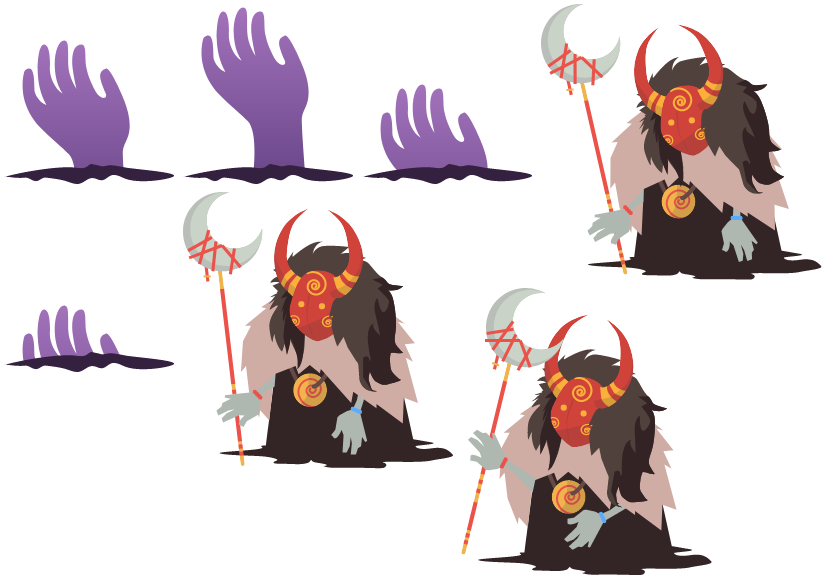
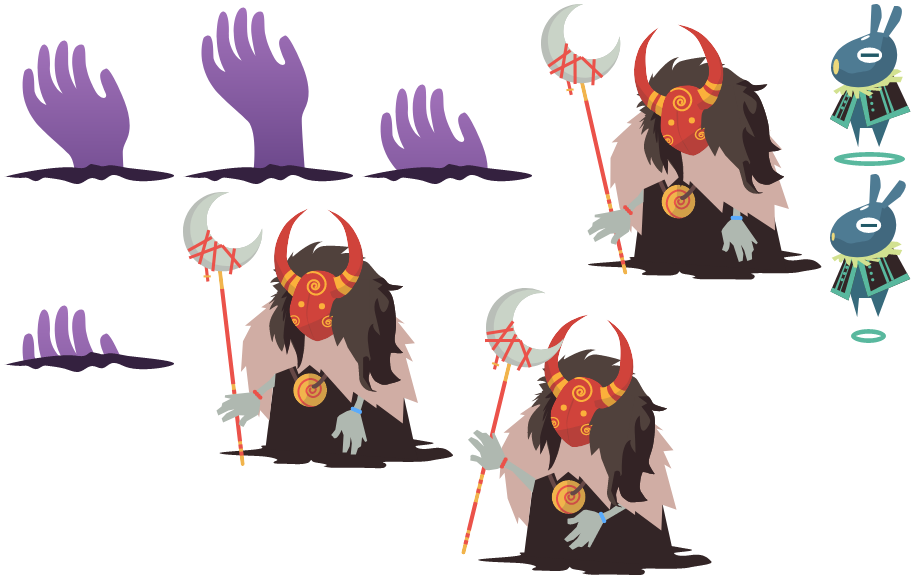
enemy

diff --git a/src/screens/index.js b/src/screens/index.js
@@ -1,8 +1,11 @@
 import React, { useState } from "react";
 import styled from "styled-components";
+import UIArea from "./UIArea.js";
 import MoveBox from "../components/MoveBox";
 import Boxs from "../components/Boxs";
 import Hero from "../components/Hero";
+import Enemies from "../components/Enemies";
+import Things from "../components/Things";
 import Ground from "../components/Ground";
 import Sky from "../components/Sky";
 
@@ -28,12 +31,6 @@ const GameArea = styled.div`
   z-index: 10;
 `;
 
-const UIArea = styled.div`
-  position: absolute;
-  width: 100%;
-  height: 100%;
-  z-index: 30;
-`;
 
 function MainScreen() {
   const [viewW, setViewW] = useState(window.innerWidth / 1280);
@@ -102,14 +99,14 @@ function MainScreen() {
   return (
     <Container style={{ transform: `scale(${viewW})` }}>
       <BgArea>
-        <Sky start="true" />
-        <Ground lineBg="startLine" />
+        <Sky start='true' />
+        <Ground lineBg='startLine' />
       </BgArea>
 
       <GameArea>
-        <Hero animation="heroBuff" />
-        <Hero animation="heroHurt" />
-        <Hero animation="heroDie" />
+        <Hero animation='heroBuff' />
+        <Hero animation='heroHurt' />
+        <Hero animation='heroDie' />
         <MoveBox
           speed={20}
           width={90}
@@ -125,10 +122,33 @@ function MainScreen() {
         >
           <Hero animation={hero.animation} />
         </MoveBox>
-        <Boxs />
+        <Boxs speed={20} width={300} height={120} top={300} left={300} moveStyle = "boss">
+          <Enemies actor ="boss" />
+        </Boxs>
+        <Boxs speed={20} width={120} height={60} top={450} left={500} moveStyle = "littleBoss">
+          <Enemies actor ="littleBoss"/>
+        </Boxs>
+        <Boxs speed={20} width={200} height={60} top={550} left={300}>
+          <Enemies actor ="evilHand"/>
+        </Boxs>
+        <Boxs width={200} height={60} top={300} left={700}>
+          <Things actor ="spike"/>
+        </Boxs>
+        <Boxs width={400} height={90} top={500} left={700}>
+          <Things actor ="rock"/>
+        </Boxs>
+        <Boxs width={0} height={0} top={700} left={700}>
+          <Things actor ="bone1"/>
+        </Boxs>
+        <Boxs width={0} height={0} top={700} left={800}>
+          <Things actor ="skull"/>
+        </Boxs>
+        <Boxs speed={20} width={90} height={30} top={700} left={850}>
+          <Things actor ="star"/>
+        </Boxs>
       </GameArea>
 
-      <UIArea>ui</UIArea>
+      <UIArea />
     </Container>
   );
 }

diff --git a/src/components/Enemies/index.js b/src/components/Enemies/index.js
@@ -1,0 +1,97 @@
+import React from "react";
+import styled, { keyframes } from "styled-components";
+import { enemy } from "../../assets";
+
+const stitchesSprite = (x = 0, y = 0, width = 0, height = 0) => {
+  return `background-position: ${x}px ${y}px;
+    width: ${width}px;
+    height: ${height}px;`;
+};
+
+const boss = keyframes`
+ 0% {
+    ${stitchesSprite(-541, -4, 281, 276)}
+}
+80% {
+  ${stitchesSprite(-541, -4, 281, 276)}
+}
+85% {
+    ${stitchesSprite(-183, -192, 270, 277)}
+}
+90% {
+    ${stitchesSprite(-461, -288, 251, 288)}
+}
+100% {
+    ${stitchesSprite(-461, -288, 251, 288)}
+}
+`;
+
+const littleBoss = keyframes`
+ 0% {
+    ${stitchesSprite(-830, -174, 81, 169)}
+}
+ 50% {
+    ${stitchesSprite(-830, -174, 81, 169)}
+}
+100% {
+    ${stitchesSprite(-830, -4, 81, 162)}
+}
+`;
+
+const evilHand = keyframes`
+ 0% {
+    ${stitchesSprite(-4, -192, 171, 180)}
+}
+ 70% {
+    ${stitchesSprite(-4, -192, 171, 180)}
+}
+ 75% {
+    ${stitchesSprite(-362, -4, 171, 180)}
+}
+ 80% {
+    ${stitchesSprite(-4, -4, 171, 180)}
+}
+ 100% {
+    ${stitchesSprite(-183, -4, 171, 180)}
+}
+`;
+
+const EnemiesBox = styled.div`
+  display: block;
+  width: 80px;
+  height: 120px;
+  filter: drop-shadow(0 2px 4px rgba(0, 0, 0, 0.2));
+  &,
+  &::before,
+  &:after {
+    background: url(${enemy});
+    background-repeat: no-repeat;
+    background-position: -5px -405px;
+    animation: ${props => props.animation[0]} ${props => props.animation[1]};
+  }
+  &::before,
+  &:after {
+    position: absolute;
+    content: "";
+    width: 100%;
+    height: 100%;
+    animation-delay: 0.1s;
+    opacity: 0.15;
+  }
+  &:after {
+    animation-delay: 0.2s;
+    opacity: 0.05;
+  }
+`;
+
+const ANIMATION = {
+  boss: [boss, "2s infinite alternate step-start"],
+  littleBoss: [littleBoss, ".5s infinite step-start"],
+  evilHand: [evilHand, "2s infinite alternate step-start"]
+};
+
+const Enemies = ({ actor = "boss" }) => {
+  return <EnemiesBox animation={ANIMATION[actor]} />;
+};
+
+export default Enemies;

diff --git a/src/components/Boxs/index.js b/src/components/Boxs/index.js
@@ -1,6 +1,17 @@
 import React, { useState } from "react";
-import styled from "styled-components";
+import styled, { keyframes } from "styled-components";
 import { toRange } from "../../utility";
+
+const moveUp = num => keyframes`
+ 100% {
+    margin-top: ${num}px;
+}
+`;
+const moveLeft = num => keyframes`
+ 100% {
+    margin-left: ${num}px;
+}
+`;
 
 const BoxsWrapper = styled.div`
   position: absolute;
@@ -12,10 +23,13 @@ const BoxsWrapper = styled.div`
   background-color: ${props => props.bgColor};
   transform: translate(0, -100%);
   transition: 0.1s linear;
+  animation: ${props => props.animation[0]} ${props => props.animation[1]};
   ${props => (props.test ? `outline: 1px solid #0f3;` : null)}
   &>div {
     position: absolute;
-    bottom: 6px;
+    bottom: ${props => props.height / 4}px;
+    left: 50%;
+    transform: translate(-50%);
   }
   &::before {
     position: absolute;
@@ -27,6 +41,12 @@ const BoxsWrapper = styled.div`
   }
 `;
 
+const MOVE_STYLE = {
+  none: ["none", "none"],
+  boss: [moveUp(160), "3s infinite alternate"],
+  littleBoss: [moveUp(160), "1s infinite alternate"]
+};
+
 const Boxs = ({
   children,
   width = 10,
@@ -37,10 +57,10 @@ const Boxs = ({
   left = 0,
   start = true,
   test = true,
-  area = [0, 200, 0, 200]
+  area = [0, 200, 0, 200],
+  moveStyle = "none"
 }) => {
   const [position, setPosition] = useState({ top: top, left: left });
-
 
   return (
     <BoxsWrapper
@@ -48,9 +68,11 @@ const Boxs = ({
       height={height}
       bgColor={bgColor}
       test={test}
+      animation={MOVE_STYLE[moveStyle]}
       style={{
         top: position.top,
-        left: position.left
+        left: position.left,
+        zIndex: position.top + height
       }}
     >
       {children}

diff --git a/src/components/Things/index.js b/src/components/Things/index.js
@@ -1,0 +1,60 @@
+import React from "react";
+import styled from "styled-components";
+import { things } from "../../assets";
+
+const stitchesSprite = (x = 0, y = 0, width = 0, height = 0) => {
+  return `background-position: ${x}px ${y}px;
+    width: ${width}px;
+    height: ${height}px;`;
+};
+
+const ThingsBox = styled.div`
+  display: block;
+  width: 80px;
+  height: 120px;
+  filter: drop-shadow(0 2px 4px rgba(0, 0, 0, 0.2));
+  &,
+  &::before,
+  &:after {
+    background: url(${things});
+    background-repeat: no-repeat;
+    ${props => props.actor}
+  }
+  &::before,
+  &:after {
+    position: absolute;
+    content: "";
+    width: 100%;
+    height: 100%;
+    animation-delay: 0.1s;
+    opacity: 0.15;
+  }
+  &:after {
+    animation-delay: 0.2s;
+    opacity: 0.05;
+  }
+`;
+
+const spike = stitchesSprite(-342, -4, 130, 120);
+const rock = stitchesSprite(-4, -4, 330, 235);
+const bone1 = stitchesSprite(-397, -132, 53, 39);
+const bone2 = stitchesSprite(-342, -179, 76, 48);
+const skull = stitchesSprite(-342, -132, 47, 37);
+const star = stitchesSprite(-4, -291, 60, 60);
+const star2 = stitchesSprite(-72, -291, 60, 60);
+
+const ACTORS = {
+  spike: spike,
+  rock: rock,
+  bone1: bone1,
+  bone2: bone2,
+  skull: skull,
+  star: star,
+  star2: star2
+};
+
+const Things = ({ actor = "spike" }) => {
+  return <ThingsBox actor={ACTORS[actor]} />;
+};
+
+export default Things;

diff --git a/src/components/Footer/index.js b/src/components/Footer/index.js
@@ -1,0 +1,39 @@
+import React from "react";
+import styled, { keyframes } from "styled-components";
+import { footer } from "../../assets";
+
+const bgMove = keyframes`
+  to {
+    background-position: -1280px 0;
+  }
+`;
+
+const FooterWrapper = styled.div`
+  position: absolute;
+  width: 1280px;
+  height: 175px;
+  bottom: 0;
+  left: 0;
+  background-image: url(${footer});
+  background-repeat-y: no-repeat;
+  animation: ${bgMove} 5s linear infinite;
+`;
+
+const Bar = styled.div`
+  position: absolute;
+  width: 1280px;
+  height: 60px;
+  bottom: 0;
+  left: 0;
+  background-color: #34213f;
+`;
+
+const Footer = ({ start = "false" }) => {
+  return (
+    <FooterWrapper>
+      <Bar />
+    </FooterWrapper>
+  );
+};
+
+export default Footer;

diff --git a/src/components/MoveBox/index.js b/src/components/MoveBox/index.js
@@ -15,7 +15,9 @@ const BoxWrapper = styled.div`
   ${props => (props.test ? `outline: 1px solid #0f3;` : null)}
   &>div {
     position: absolute;
-    bottom: 6px;
+    bottom: ${props => props.height / 4}px;
+    left: 50%;
+    transform: translate(-50%);
   }
   &::before {
     position: absolute;
@@ -67,7 +69,8 @@ const MoveBox = ({
       test={test}
       style={{
         top: position.top,
-        left: position.left
+        left: position.left,
+        zIndex: position.top + height
       }}
     >
       {children}

diff --git a/src/screens/UIArea.js b/src/screens/UIArea.js
@@ -1,0 +1,20 @@
+import React from "react";
+import styled from "styled-components";
+import Footer from "../components/Footer";
+
+const UIAreaWrapper = styled.div`
+  position: absolute;
+  width: 100%;
+  height: 100%;
+  z-index: 30;
+`;
+
+const UIArea = () => {
+  return (
+    <UIAreaWrapper>
+      <Footer />
+    </UIAreaWrapper>
+  );
+};
+
+export default UIArea;
